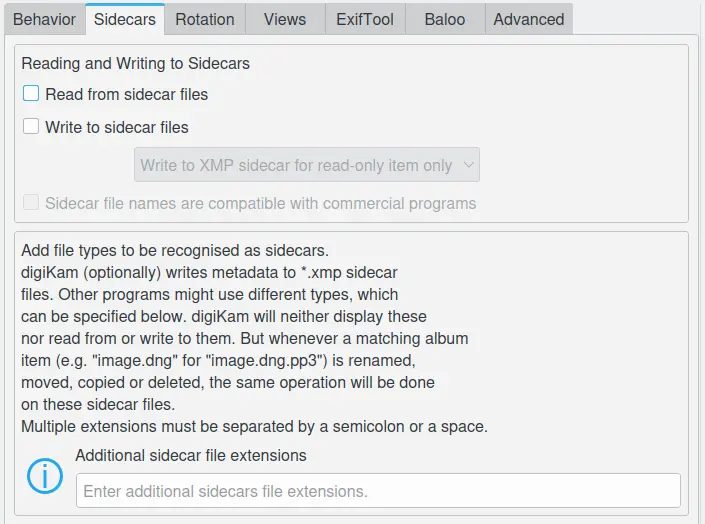
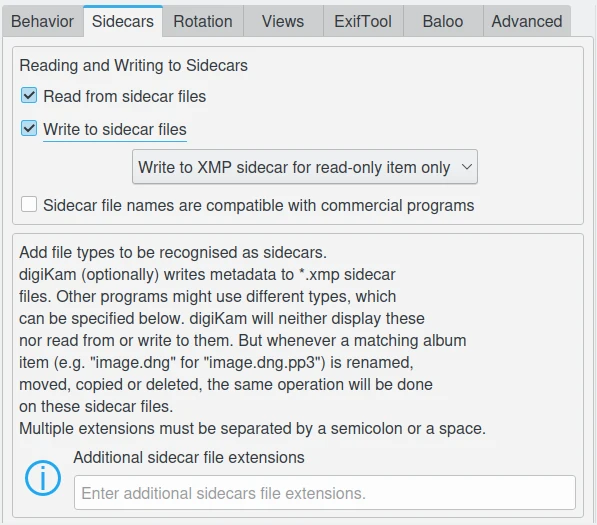
add more details about the setup XMP sidecars support

Changed region(s): [[0.0, 0.0, 0.995, 1.0]]

diff --git a/setup_application/metadata_settings.rst b/setup_application/metadata_settings.rst
@@ -39,7 +39,13 @@ The **Behavior** tab allows you to select what information digiKam will write to
 Sidecars Settings
 -----------------
 
-The **Sidecars** tab allows user to control whether digiKam will read and write from/to XMP sidecars or not. Filename for the sidecars set to :file:`filename.ext.xmp`. For example, :file:`image1.dng` will have a sidecar file named :file:`image1.dng.xmp`.
+The **Sidecars** tab allows user to control whether digiKam will read and write from/to XMP sidecars or not. You can also customize the granularity of write operations to XMP sidecar:
+
+    - **Write to XMP sidecar only** will not touch the item metadata.
+    - **Write to item and XMP Sidecar** will touch both item and sidecar at the same time.
+    - **Write to XMP sidecar for read-only item only** will handle sidecar for non-writable items only, as video or RAW files for example.
+
+Filename for the sidecars set to :file:`filename.ext.xmp`. For example, :file:`image1.dng` will have a sidecar file named :file:`image1.dng.xmp`. With the option **Sidecar file names are compatible with commercial programs** digiKam wiil create the XMP sidecar files with a compatible file name (:file:`image1.xmp`) used by many commercial programs.
 
 .. figure:: images/setup_metadata_sidecars.webp
     :alt:
@@ -50,6 +56,8 @@ The **Sidecars** tab allows user to control whether digiKam will read and write 
 .. note::
 
     If the box **Read from sidecar files** is checked, digiKam will only read the sidecar while ignoring the embedded metadata.
+
+The option **Additional sidecar file extensions** allows to add extra filename extensions to be processed alongside regular items, independently of the XMP sidecars. These files will not be visible, but regarded as an extension of the main file. Just write :file:`thm pp3` to support files with the :file:`*.thm` (extra Jpeg thumbnail for RAW) and :file:`*.pp3` (RAWTheraPee metadata) extensions.
 
 .. _metadata_rotation:
 
